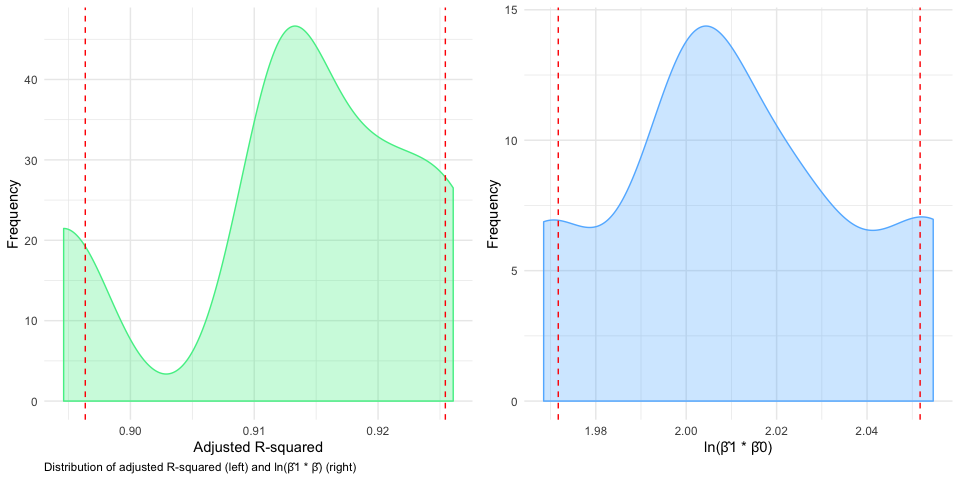
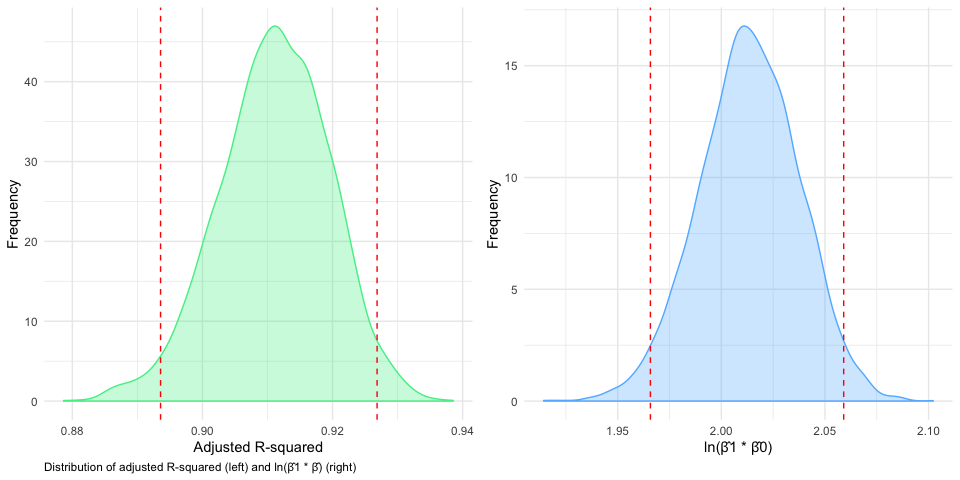
core problems done. will proofread one final time.

diff --git a/p8105_hw6_ksw2137.md b/p8105_hw6_ksw2137.md
@@ -1,13 +1,18 @@
 P8105 Data Science I - Homework 6
 ================
 Kevin S.W. UNI: ksw2137
-11/21/2019
+11/22/2019
 
-# Problem 1
+# Problem 1 - Birth Weight Modelling
 
-First load our birthweight data.
+First load our birthweight
+data.
 
 ``` r
+# though this part doesn't require seed, will set here because further problem requires it.
+set.seed(2)
+
+# reading in source data
 birthweight_df <- read_csv("./data/Birthweight.csv") %>% 
   janitor::clean_names() %>% 
   mutate_at(.vars = vars("babysex", "malform", # convert columns in vars() to factors
@@ -19,7 +24,7 @@ birthweight_df <- read_csv("./data/Birthweight.csv") %>%
     malform = fct_recode(malform, absent = "0", present = "1")
     )
 
-# skimr::skim(birthweight_df)                   # remove "#" to activate skimr check 
+#skimr::skim(birthweight_df)                   # remove "#" to activate skimr check 
 ```
 
 After loading our birthweight data, we obtain a 4342 by 20 dataset that
@@ -71,6 +76,7 @@ see which variables are highly correlated and we can pick one out of
 those groups.
 
 ``` r
+# correlation matrix
 select_if(birthweight_df, is.numeric) %>%     # select numeric variables
   cor() %>%                                   # get the correlation values
   corrplot()                                  # make the correlation matrix
@@ -83,56 +89,89 @@ is `bhead`, `blength`, `delwt`, `gaweeks`, `wtgain`, `mheight`, and
 `ppwt`. However, we also note that `delwt` is highly correlated with
 `ppwt`. Given that `delwt` is more correlated to `bwt`, we’ll keep
 `delwt` and drop `ppwt`. It is also slightly correlated to `wtgain`, so
-we’ll drop `wtgain` to prevent collinearity.
+we’ll drop `wtgain` (lower collinearity to `bwt`) to prevent
+collinearity. Finally, we would think that `mrace` (mother’s
+race/ethnicity) might also influence a baby’s weight (genetically
+related). So our proposed model:
+
+  - Proposed model: `bhead`, `blength`, `delwt`, `gaweeks`, and `mrace`;
+    main effects only.
+
+<!-- end list -->
 
 ``` r
-first_fit <- birthweight_df %>% 
-  lm(bwt ~ bhead + blength + delwt + gaweeks, data = .)
+# our first model try
+first_fit_lm <- birthweight_df %>% 
+  lm(bwt ~ bhead + blength + delwt + gaweeks + mrace, data = .)
 
-first_fit %>% 
+# AIC, R-squared, etc
+first_fit_lm %>% 
   broom::glance() %>% 
   knitr::kable()
 ```
 
-| r.squared | adj.r.squared |   sigma | statistic | p.value | df |     logLik |      AIC |      BIC |  deviance | df.residual |
-| --------: | ------------: | ------: | --------: | ------: | -: | ---------: | -------: | -------: | --------: | ----------: |
-| 0.6954304 |     0.6951495 | 282.777 |  2475.692 |       0 |  5 | \-30667.64 | 61347.27 | 61385.53 | 346798796 |        4337 |
+| r.squared | adj.r.squared |    sigma | statistic | p.value | df |     logLik |      AIC |     BIC |  deviance | df.residual |
+| --------: | ------------: | -------: | --------: | ------: | -: | ---------: | -------: | ------: | --------: | ----------: |
+| 0.7091789 |     0.7087091 | 276.4166 |  1509.804 |       0 |  8 | \-30567.36 | 61152.71 | 61210.1 | 331144133 |        4334 |
+
+Using `broom::glance()` shows that our adjusted R-squared is at a pretty
+good value of 0.709, which means 70.9% of the variability in `bwt` is
+explained by our covariates.
 
 ``` r
-first_fit %>% 
+# statistics of each coefficient
+# as well as replacing the label to be more explicit
+first_fit_lm %>% 
   broom::tidy() %>% 
+  mutate(
+    term = str_replace(term, "^mrace", "Mom's Race: "),
+    term = str_replace(term, c("1", "2", "3", "4"), c("white", "black", "asian", "puerto rican")),
+    p.value = scales::scientific(p.value, digits = 3)
+    ) %>% 
   knitr::kable()
 ```
 
-| term        |      estimate |  std.error |   statistic | p.value |
-| :---------- | ------------: | ---------: | ----------: | ------: |
-| (Intercept) | \-6249.526492 | 95.3679459 | \-65.530682 |       0 |
-| bhead       |    135.815296 |  3.5021062 |   38.781033 |       0 |
-| blength     |     79.145148 |  2.0739313 |   38.161895 |       0 |
-| delwt       |      2.040243 |  0.1994743 |   10.228100 |       0 |
-| gaweeks     |     14.181183 |  1.4916192 |    9.507241 |       0 |
+| term                     |     estimate |  std.error |   statistic | p.value   |
+| :----------------------- | -----------: | ---------: | ----------: | :-------- |
+| (Intercept)              | \-5870.87387 | 96.9590127 | \-60.550058 | 0.00e+00  |
+| bhead                    |    131.72752 |  3.4446534 |   38.241155 | 5.74e-276 |
+| blength                  |     77.02530 |  2.0329123 |   37.889139 | 1.33e-271 |
+| delwt                    |      2.15978 |  0.1973335 |   10.944819 | 1.61e-27  |
+| gaweeks                  |     11.87186 |  1.4671179 |    8.091963 | 7.56e-16  |
+| Mom’s Race: black        |  \-126.77233 |  8.9833879 | \-14.111862 | 3.02e-44  |
+| Mom’s Race: asian        |   \-51.59923 | 42.7803594 |  \-1.206143 | 2.28e-01  |
+| Mom’s Race: puerto rican |  \-102.52002 | 18.8392756 |  \-5.441824 | 5.56e-08  |
+
+We see from our coefficient summary that each variable have a
+significant p \< 0.05 except for Asian mothers (White as the reference
+race). appears to be a reasonable compromise.
+
+### Checking assumptions
+
+We then check our normality assumption of our model by plotting
+residuals vs. fitted values.
 
 ``` r
 birthweight_df %>% 
-  select(bwt, bhead, blength, delwt, gaweeks) %>% 
-  pivot_longer(bhead:gaweeks,
-               names_to = "variable",
-               values_to = "values") %>% 
-  ggplot(aes(x = values, y = bwt, color = variable)) +
-  geom_point(alpha = 0.3) +
-  facet_grid(variable ~ .)
+  add_residuals(first_fit_lm) %>%                   # adding residuals to our df
+  add_predictions(first_fit_lm) %>%                 # add predictions using our df
+  ggplot(aes(x = pred, y = resid)) +
+  geom_point(alpha = 0.2, color = "steelblue1") +
+  geom_smooth(method = "lm", color = "red") +
+  labs(x = "Fitted Birth Weight (grams)",
+       y = "Residuals",
+       caption = "Figure 2: Scatterplot of residuals vs. fitted prediction values")
 ```
 
-<img src="p8105_hw6_ksw2137_files/figure-gfm/unnamed-chunk-2-1.png" style="display: block; margin: auto;" />
+<img src="p8105_hw6_ksw2137_files/figure-gfm/resid_fitted_plot-1.png" style="display: block; margin: auto;" />
 
-Propose a regression model for birthweight. This model may be based on a
-hypothesized structure for the factors that underly birthweight, on a
-data-driven model-building process, or a combination of the two.
-Describe your modeling process and show a plot of model residuals
-against fitted values – use add\_predictions and add\_residuals in
-making this plot.
+This is great since we see that our scatter plot seems to be centered at
+0 without much variability. This means that our assumption of normality
+holds.
 
-Compare your model to two others:
+### Model validation
+
+We can then compare our model to the other two proposed models:
 
   - Model 1: length at birth, gestational age as predictors (main
     effects only)
@@ -140,40 +179,10 @@ Compare your model to two others:
 <!-- end list -->
 
 ``` r
-birthweight_df %>% 
-  ggplot(aes(x = wtgain, y = bwt, color = menarche)) +
-  geom_point(alpha = 0.3) +
-  geom_smooth(method = "lm")
-```
-
-<img src="p8105_hw6_ksw2137_files/figure-gfm/unnamed-chunk-3-1.png" style="display: block; margin: auto;" />
-
-``` r
+# comparison model 1
 model1 <- birthweight_df %>% 
   lm(bwt ~ blength + gaweeks, data = .)
-
-summary(model1)
 ```
-
-    ## 
-    ## Call:
-    ## lm(formula = bwt ~ blength + gaweeks, data = .)
-    ## 
-    ## Residuals:
-    ##     Min      1Q  Median      3Q     Max 
-    ## -1709.6  -215.4   -11.4   208.2  4188.8 
-    ## 
-    ## Coefficients:
-    ##              Estimate Std. Error t value Pr(>|t|)    
-    ## (Intercept) -4347.667     97.958  -44.38   <2e-16 ***
-    ## blength       128.556      1.990   64.60   <2e-16 ***
-    ## gaweeks        27.047      1.718   15.74   <2e-16 ***
-    ## ---
-    ## Signif. codes:  0 '***' 0.001 '**' 0.01 '*' 0.05 '.' 0.1 ' ' 1
-    ## 
-    ## Residual standard error: 333.2 on 4339 degrees of freedom
-    ## Multiple R-squared:  0.5769, Adjusted R-squared:  0.5767 
-    ## F-statistic:  2958 on 2 and 4339 DF,  p-value: < 2.2e-16
 
   - Model 2: head circumference, length, sex, and all interactions
     (including the three-way interaction) between these
@@ -181,43 +190,62 @@ summary(model1)
 <!-- end list -->
 
 ``` r
+# comparison model 2
 model2 <- birthweight_df %>% 
   lm(bwt ~ bhead * blength * babysex, data = .)
-
-summary(model2)
 ```
 
-    ## 
-    ## Call:
-    ## lm(formula = bwt ~ bhead * blength * babysex, data = .)
-    ## 
-    ## Residuals:
-    ##      Min       1Q   Median       3Q      Max 
-    ## -1132.99  -190.42   -10.33   178.63  2617.96 
-    ## 
-    ## Coefficients:
-    ##                               Estimate Std. Error t value Pr(>|t|)    
-    ## (Intercept)                 -7176.8170  1264.8397  -5.674 1.49e-08 ***
-    ## bhead                         181.7956    38.0542   4.777 1.84e-06 ***
-    ## blength                       102.1269    26.2118   3.896 9.92e-05 ***
-    ## babysexfemale                6374.8684  1677.7669   3.800 0.000147 ***
-    ## bhead:blength                  -0.5536     0.7802  -0.710 0.478012    
-    ## bhead:babysexfemale          -198.3932    51.0917  -3.883 0.000105 ***
-    ## blength:babysexfemale        -123.7729    35.1185  -3.524 0.000429 ***
-    ## bhead:blength:babysexfemale     3.8781     1.0566   3.670 0.000245 ***
-    ## ---
-    ## Signif. codes:  0 '***' 0.001 '**' 0.01 '*' 0.05 '.' 0.1 ' ' 1
-    ## 
-    ## Residual standard error: 287.7 on 4334 degrees of freedom
-    ## Multiple R-squared:  0.6849, Adjusted R-squared:  0.6844 
-    ## F-statistic:  1346 on 7 and 4334 DF,  p-value: < 2.2e-16
+We will use cross validation in order to compare our models with these
+two by looking for the lowest RMSE as we are trying to evaluate the
+effects of various variables on birth weight.
 
-Make this comparison in terms of the cross-validated prediction error;
-use crossv\_mc and functions in purrr as appropriate.
+``` r
+# splitting our df into the default 80:20 
+cv_df <- crossv_mc(birthweight_df, 1000) %>% 
+  mutate(                                     # converts the resulting lists into tibbles
+    train = map(train, as_tibble),
+    test = map(test, as_tibble)
+  )
 
-Note that although we expect your model to be reasonable, model building
-itself is not a main idea of the course and we don’t necessarily expect
-your model to be “optimal”
+
+# split process to relief some processing power
+# applies model estimation to each dataset with the 3 models
+trained_cv_df <- cv_df %>% 
+  mutate(
+    prop_lm = map(train, ~lm(bwt ~ bhead + blength + delwt + gaweeks + mrace, data = .x)),
+    mod1_lm = map(train, ~lm(bwt ~ blength + gaweeks, data = .x)),
+    mod2_lm = map(train, ~lm(bwt ~ bhead * blength * babysex, data = .x)))
+    
+# obtain rmse for each dataset in each model-set
+trained_cv_df <- trained_cv_df %>% 
+  mutate(
+    rmse_Proposed = map2_dbl(prop_lm, test, ~rmse(model = .x, data = .y)),
+    rmse_Model1 = map2_dbl(mod1_lm, test, ~rmse(model = .x, data = .y)),
+    rmse_Model2 = map2_dbl(mod2_lm, test, ~rmse(model = .x, data = .y))
+    )
+
+# plots distribution of rmse by each model
+trained_cv_df %>% 
+  select(starts_with("rmse")) %>%              # select the rmse columns
+  pivot_longer(everything(),
+               names_to = "model", 
+               values_to = "rmse",
+               names_prefix = "rmse_") %>% 
+  mutate(model = fct_inorder(model)) %>%       # arrange by model
+  ggplot(aes(x = model, y = rmse, color = model, fill = model)) + 
+  geom_violin(alpha = 0.3) +
+  labs(x = "Model",
+       y = "Root Mean Squared Error",
+       caption = "Figure 3: Comparison of the RMSE distribution between models") +
+  theme(legend.position = "none")
+```
+
+<img src="p8105_hw6_ksw2137_files/figure-gfm/cross_validate-1.png" style="display: block; margin: auto;" />
+
+Per our plot above, it appears that our proposed model have the lowest
+RMSE. Given this result, I would recommend the model that contains
+`bhead`, `blength`, `delwt`, `gaweeks`, and `mrace` as main effects
+only.
 
 # Problem 2 - Weather Data
 
@@ -246,15 +274,12 @@ log(beta0\*beta1).
 
 ``` r
 # selects relevant columns and renames Central Park to cp_ny for simplicity
-clean_weather_df <- weather_df %>% 
+strapped_weather_df <- weather_df %>% 
   select(name, tmax, tmin) %>% 
   mutate(
     name = str_replace(name, "CentralPark_NY", "cp_ny")
-  )
-
-# runs bootstrap x5000
-bootstrap_runs <- clean_weather_df %>% 
-  bootstrap(n = 5) %>% 
+  ) %>% 
+  bootstrap(n = 5000) %>%                                 # runs bootstrap x5000
   mutate(
     model = map(strap, ~lm(tmax ~ tmin, data = .x)),      # obtains model for each strap sample
     result = map(model, broom::tidy),                     # obtains estimate data from each model
@@ -262,7 +287,7 @@ bootstrap_runs <- clean_weather_df %>%
   )
 
 # a cleaned and filtered df containing variables of interest
-clean_strap <- bootstrap_runs %>% 
+clean_weather_strap <- strapped_weather_df %>% 
   select(-model, -strap) %>%                              # removed the original strap sample and model
   rename("strap_run" = .id) %>%                           # renamed id to "run numbers"
   unnest() %>%                                            # unnest the tibbles that remained
@@ -281,18 +306,18 @@ clean_strap <- bootstrap_runs %>%
 ```
 
 After cleaning and bootstrapping, we isolated only the variables we’re
-interested in, which is stored in `clean_strap` that contains 5
-observations for `adj_r_squared`, `beta0`, `beta1`, and `estimate_log`
-labeled by `strap_run`. We can check their distribution using a simple
-density plot below.
+interested in, which is stored in `clean_weather_strap` that contains
+5000 observations for `adj_r_squared`, `beta0`, `beta1`, and
+`estimate_log` labeled by `strap_run`. We can check their distribution
+using a simple density plot below.
 
 ``` r
 # density plot of r-squared with 2.5% and 97.5% quantile labeled
-r_squared_plot <- clean_strap %>% 
+r_squared_plot <- clean_weather_strap %>% 
   ggplot(aes(x = adj_r_squared)) +
   geom_density(color = "seagreen2", fill = "seagreen2", alpha = 0.3) +
-  geom_vline(xintercept = c(quantile(pull(clean_strap, adj_r_squared), probs = 0.025),
-                            quantile(pull(clean_strap, adj_r_squared), probs = 0.975)),
+  geom_vline(xintercept = c(quantile(pull(clean_weather_strap, adj_r_squared), probs = 0.025),
+                            quantile(pull(clean_weather_strap, adj_r_squared), probs = 0.975)),
              linetype = "dashed",
              color = "red") +
   labs(x = "Adjusted R-squared",
@@ -300,11 +325,11 @@ r_squared_plot <- clean_strap %>%
        caption = "Distribution of adjusted R-squared (left) and ln(β̂1 * β̂) (right)")
 
 # density plot of ln(beta0 * beta1) with 2.5% and 97.5% quantile labeled
-estimate_log_plot <- clean_strap %>% 
+estimate_log_plot <- clean_weather_strap %>% 
   ggplot(aes(x = estimate_log)) +
   geom_density(color = "steelblue1", fill = "steelblue1", alpha = 0.3) +
-  geom_vline(xintercept = c(quantile(pull(clean_strap, estimate_log), probs = 0.025),
-                            quantile(pull(clean_strap, estimate_log), probs = 0.975)),
+  geom_vline(xintercept = c(quantile(pull(clean_weather_strap, estimate_log), probs = 0.025),
+                            quantile(pull(clean_weather_strap, estimate_log), probs = 0.975)),
              linetype = "dashed",
              color = "red") +
   labs(x = "ln(β̂1 * β̂0)",
@@ -325,19 +350,19 @@ function below.
 
 ``` r
 # r-sq 95% CI
-quantile(pull(clean_strap, adj_r_squared), probs = c(0.025, 0.975))
+quantile(pull(clean_weather_strap, adj_r_squared), probs = c(0.025, 0.975))
 ```
 
     ##      2.5%     97.5% 
-    ## 0.8963538 0.9254344
+    ## 0.8935620 0.9268494
 
 ``` r
 # est_log 95% CI
-quantile(pull(clean_strap, estimate_log), probs = c(0.025, 0.975))
+quantile(pull(clean_weather_strap, estimate_log), probs = c(0.025, 0.975))
 ```
 
     ##     2.5%    97.5% 
-    ## 1.971702 2.051739
+    ## 1.965773 2.059037
 
 As such, we have a 95% CI of \[0.893, 0.927\] for adjusted R-squared and
 \[1.966, 2.058\] for ln(β̂1 \* β̂0).
